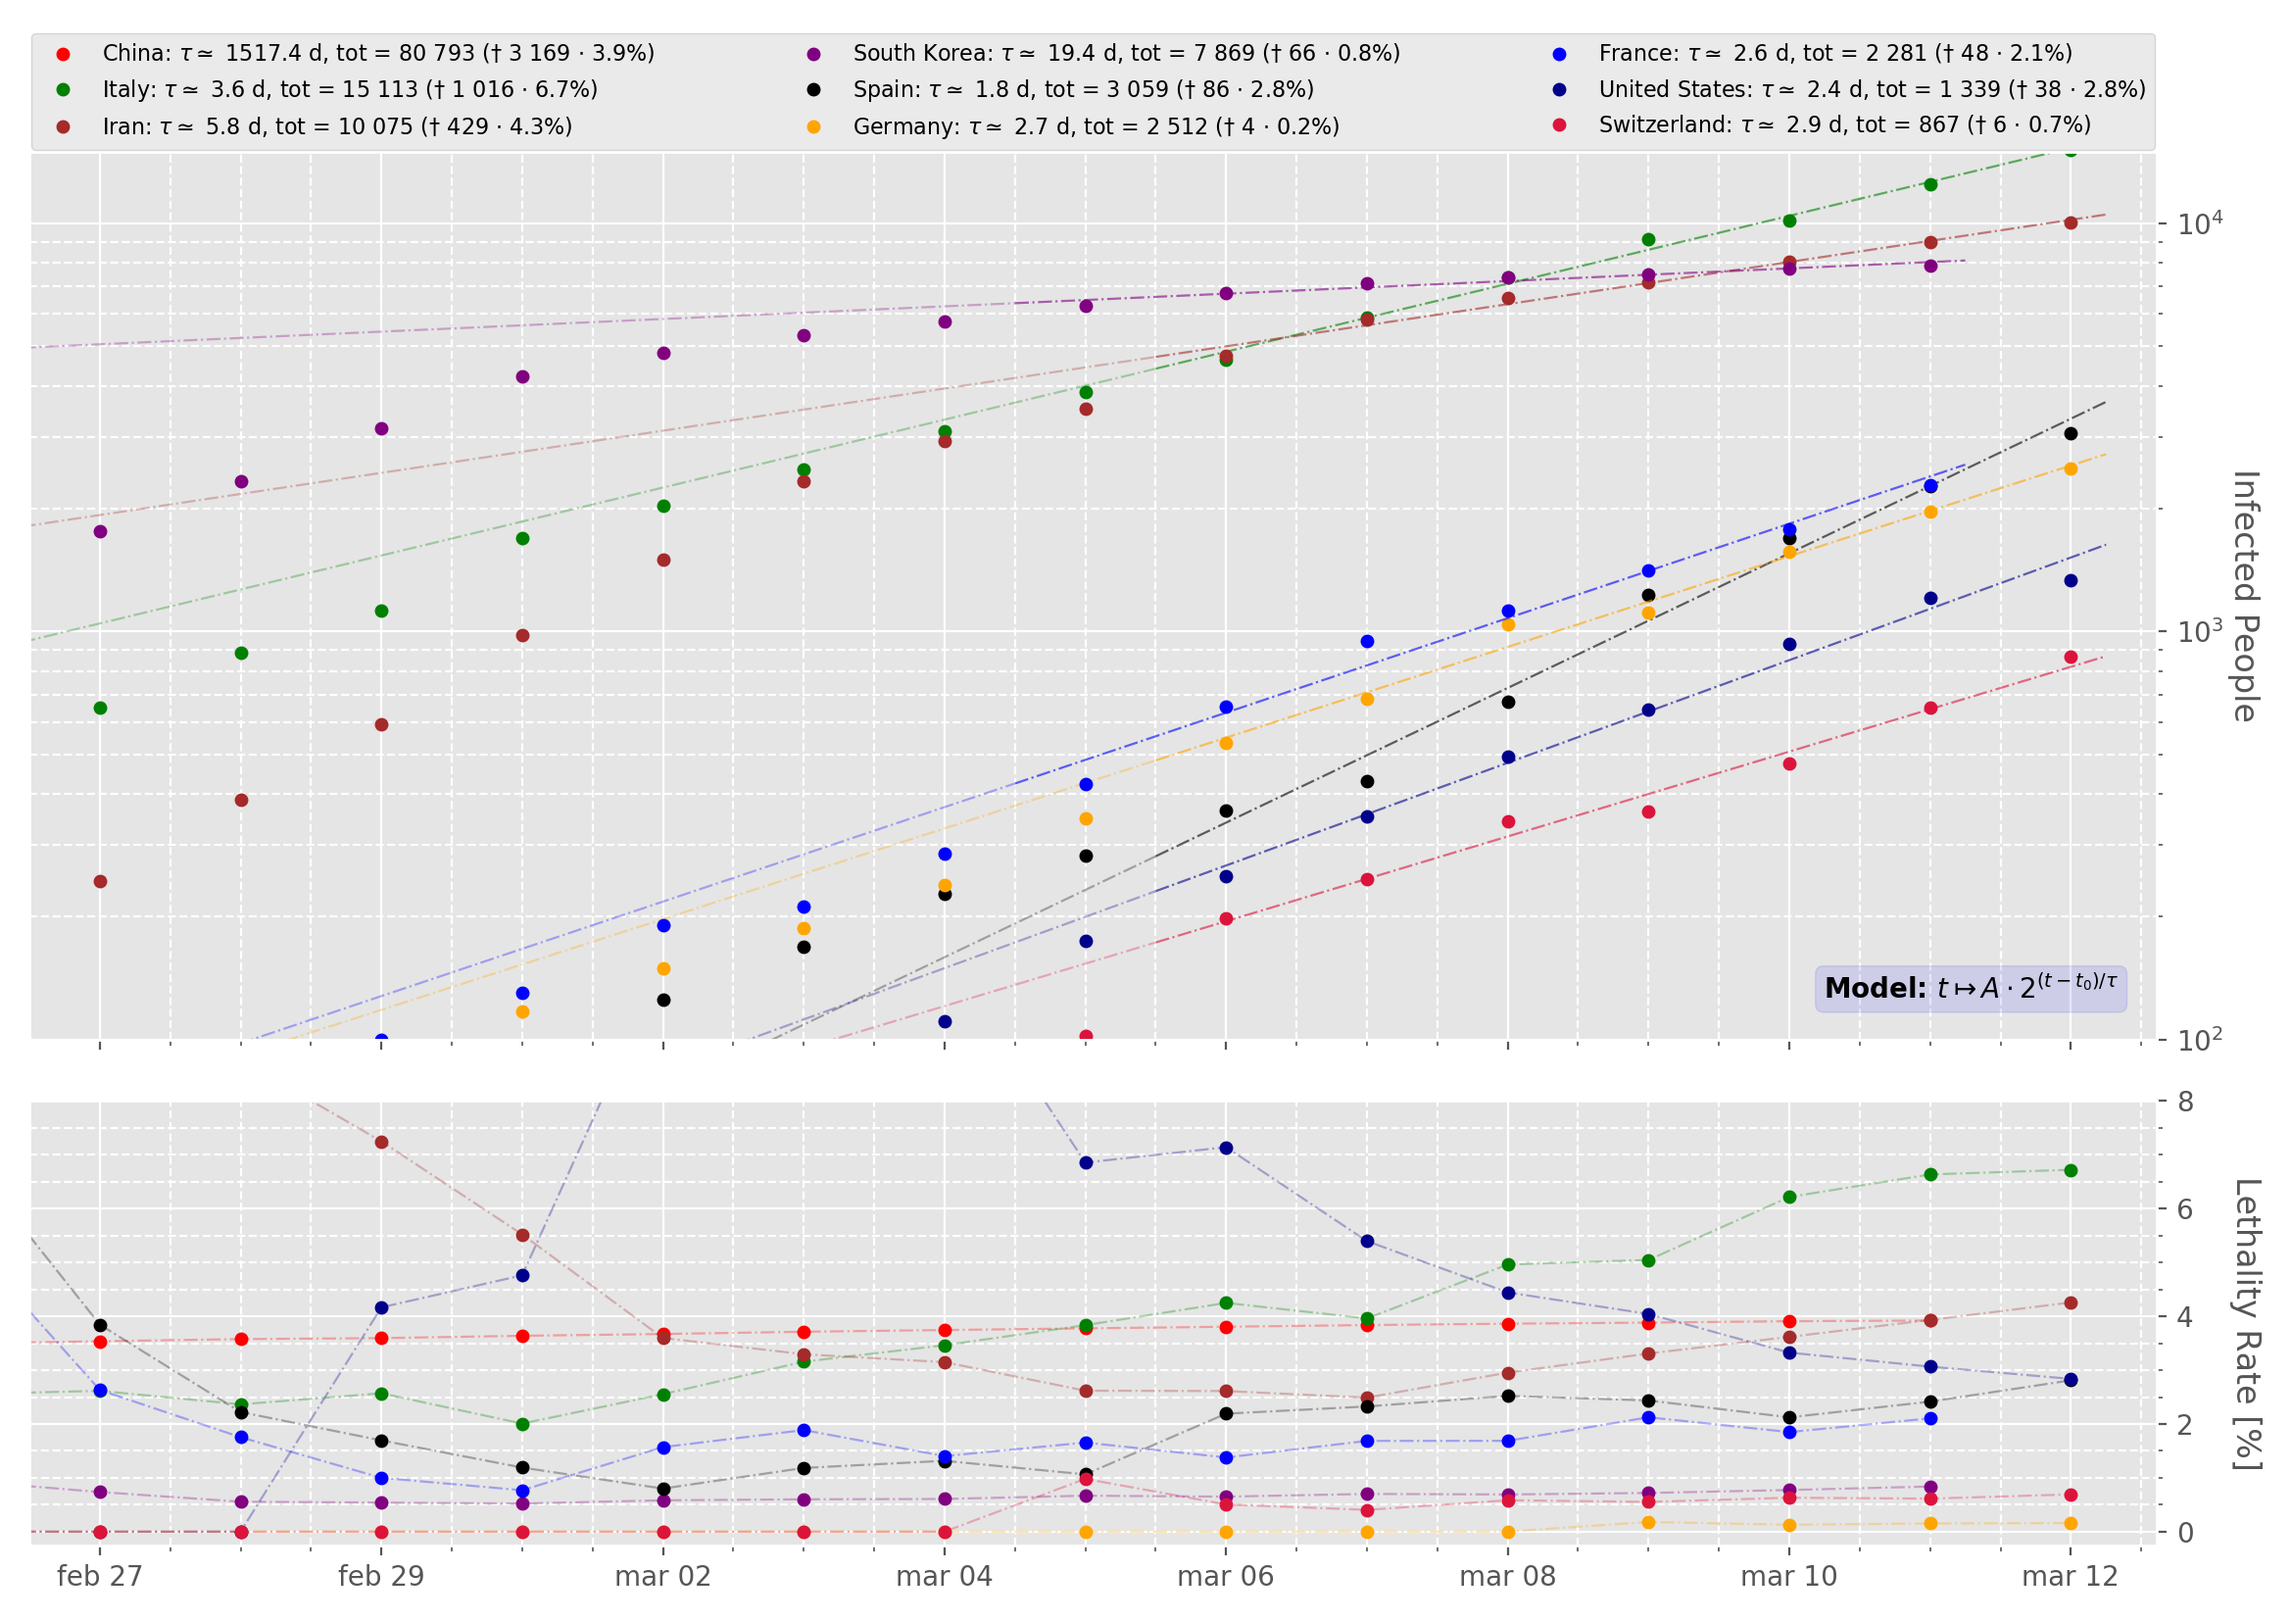
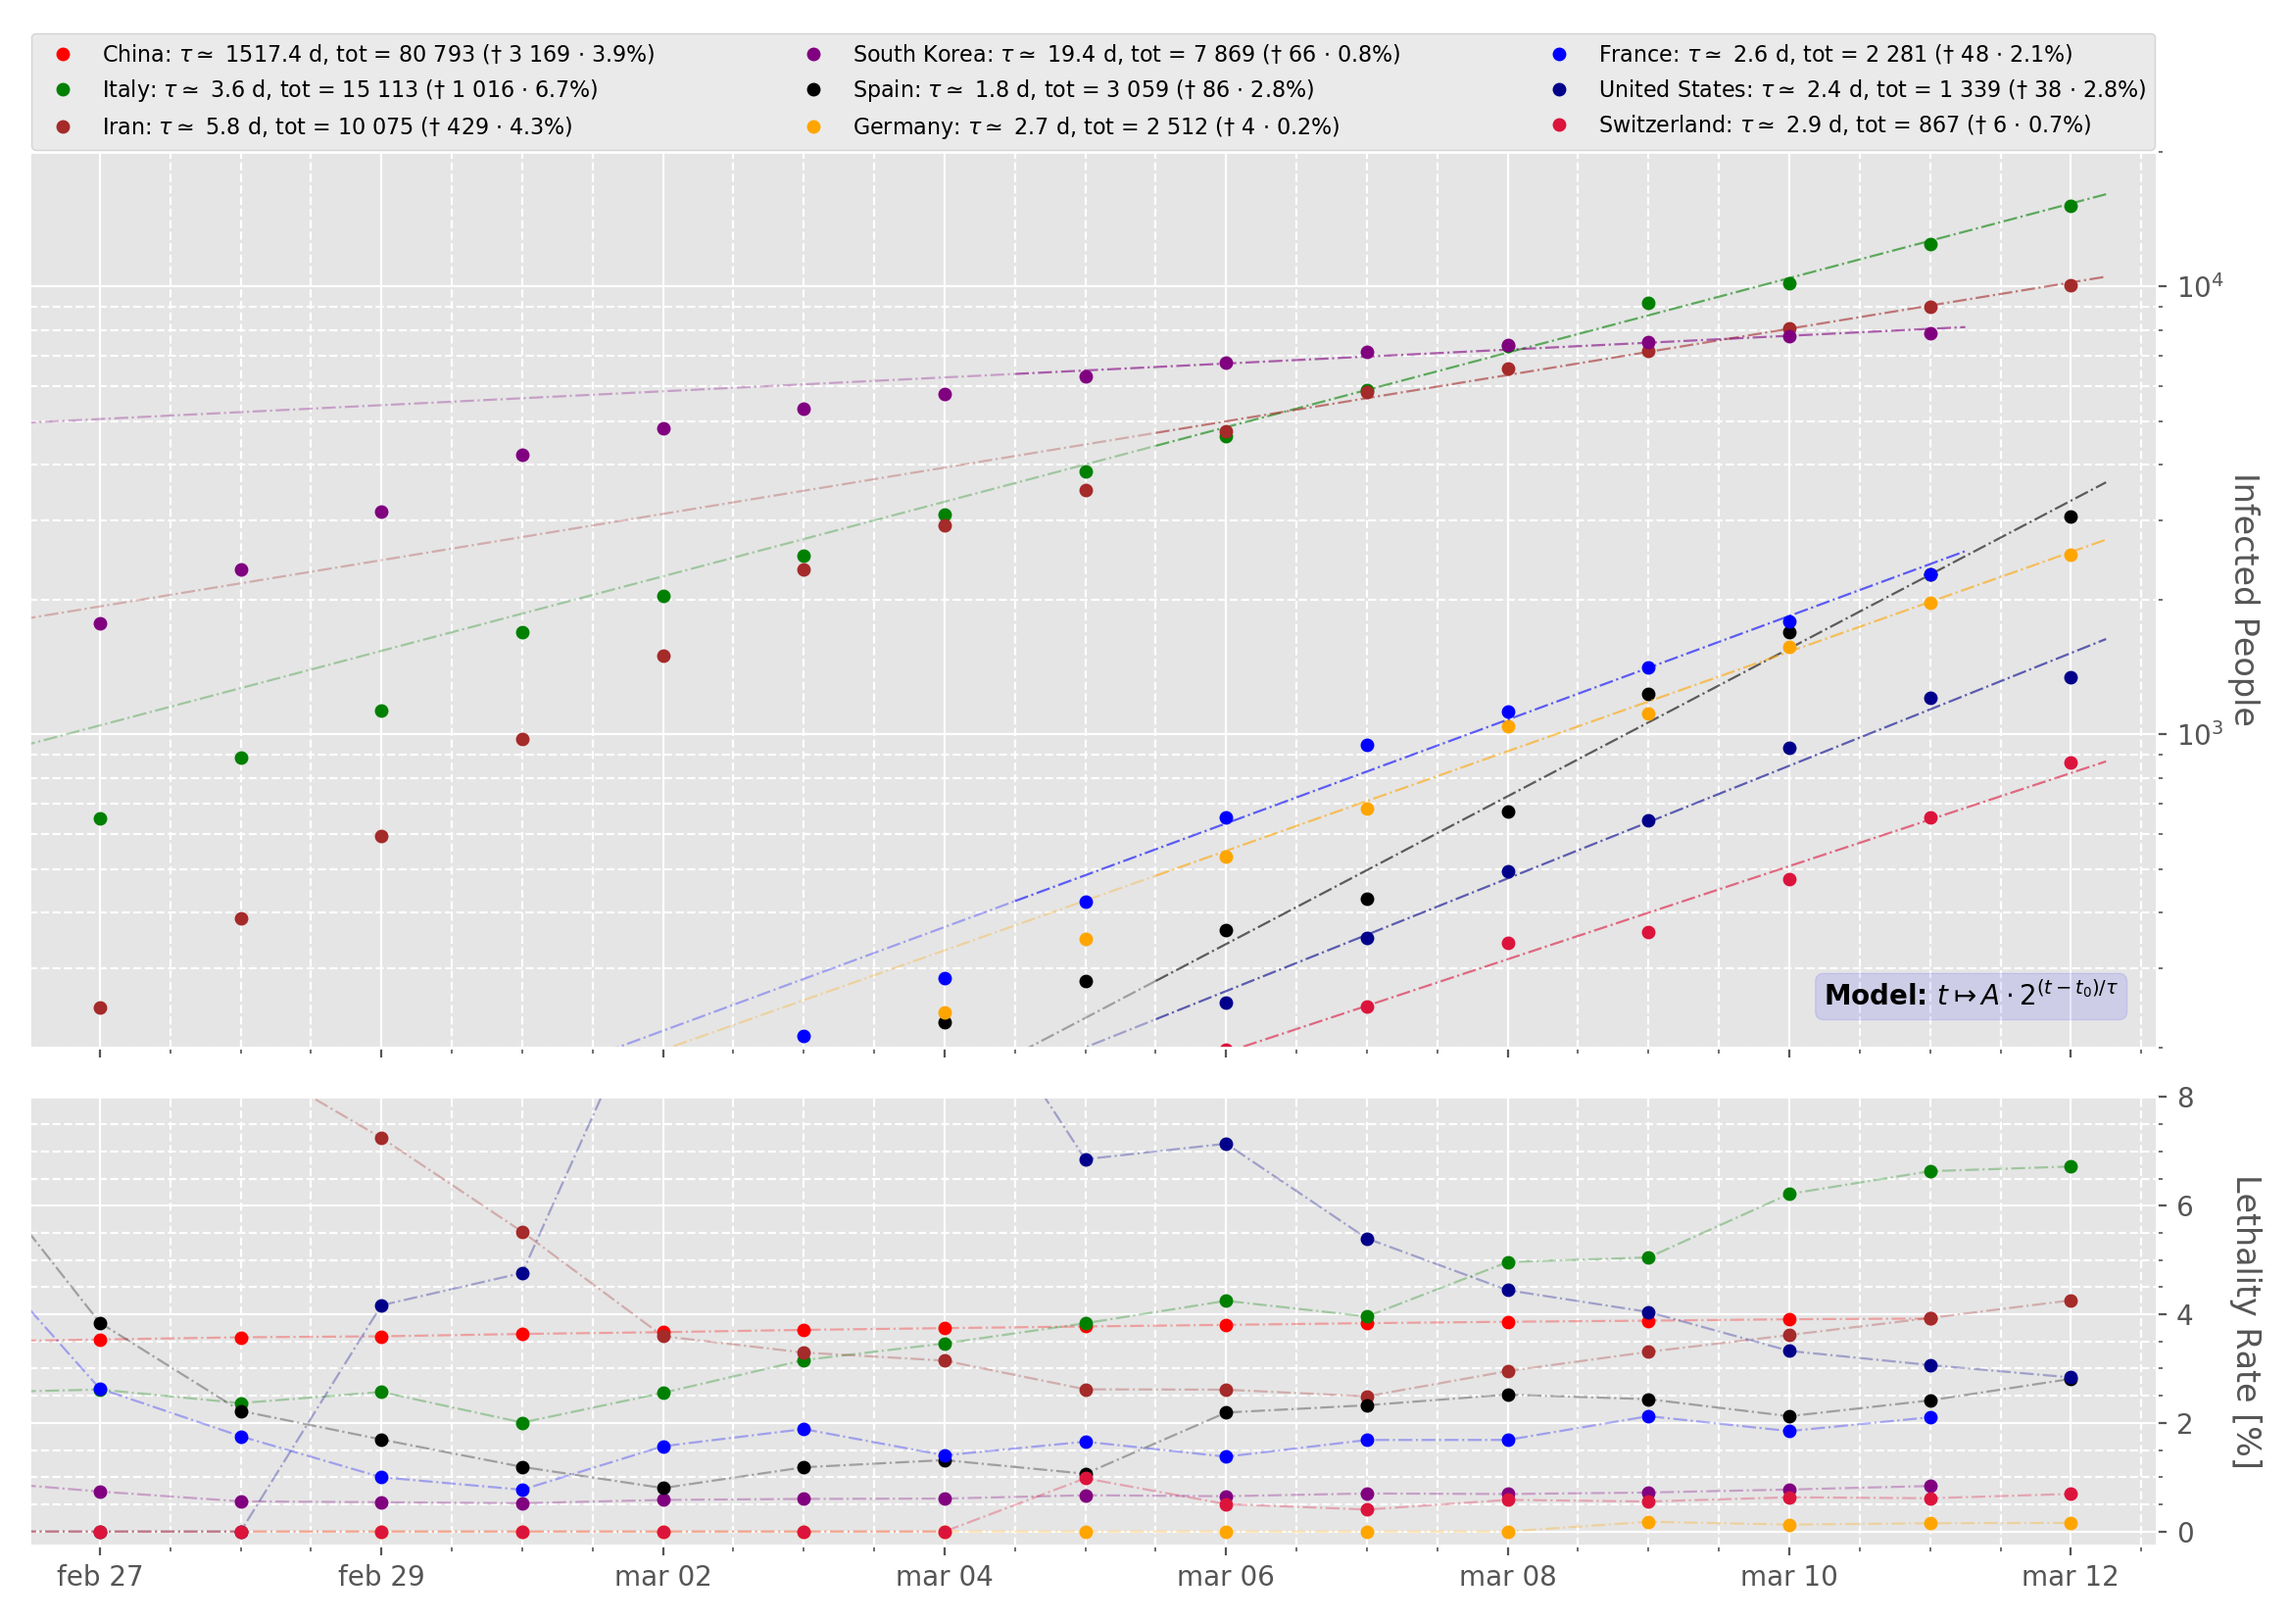
minor commit

diff --git a/Coronavirus/coronavirus.py b/Coronavirus/coronavirus.py
@@ -141,8 +141,8 @@ ax1.xaxis.set_major_locator(mdates.DayLocator(interval=2))
 ax1.xaxis.set_minor_locator(mdates.DayLocator())
 
 ax1.set_yscale("log")
-ax1.set_ylim(bottom=100)
-ax1.set_ylim(top=15000)
+ax1.set_ylim(bottom=200)
+ax1.set_ylim(top=20000)
 ax1.yaxis.tick_right()
 ax1.set_ylabel("Infected People", rotation=270, labelpad=13)
 ax1.yaxis.set_label_position("right")
